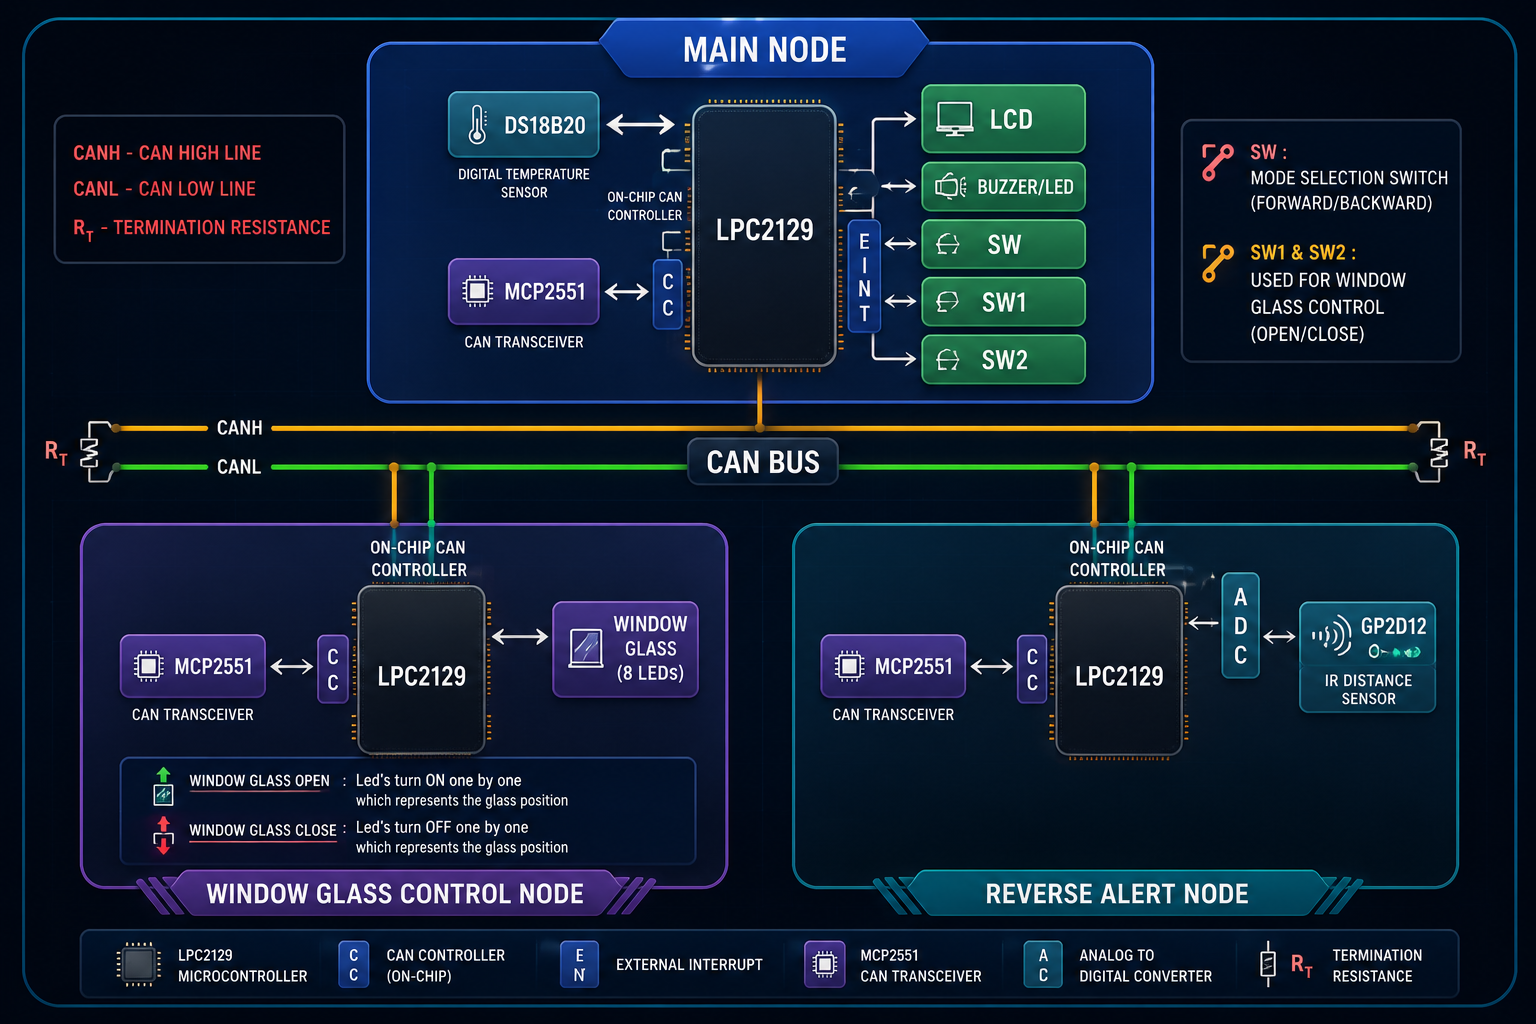
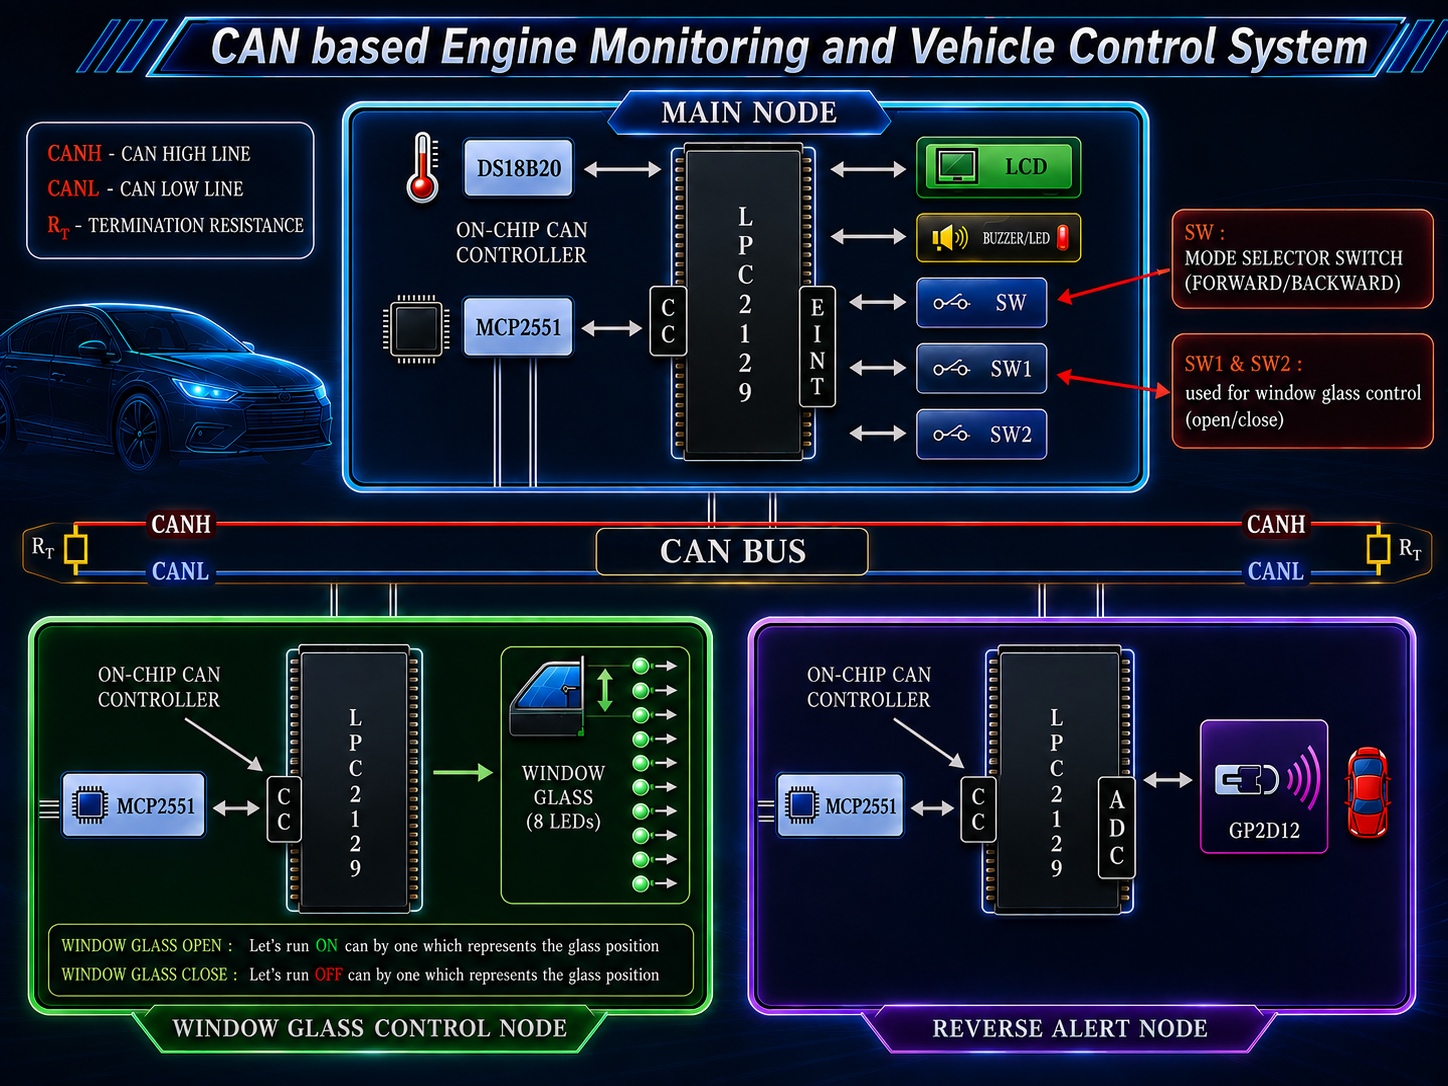
chnages in Readme file

diff --git a/Main_Node/project_functions.c b/Main_Node/project_functions.c
@@ -462,49 +462,5 @@ void show_reverse_error(void)
 }
 
 
-//Check Window Node
-
-u8 Check_Window_Node(void)
-{
-
-    u16 timeout = 100;
 
 
-    struct CAN_Frame frame;
-
-
-    while(timeout--)
-    {
-        if(CAN1_Rx(&frame))
-        {
-
-            if(frame.ID == CAN_ID_WINDOW_STATUS)
-				  return 1;
-        }
-        delay_ms(1);
-    }
-    return 0;
-}
-
-
-//check reverse node
-
-u8 Check_Reverse_Node(void)
-{
-    u16 timeout = 100;
-    struct CAN_Frame frame;
-
-    while(timeout--)
-    {
-        if(CAN1_Rx(&frame))
-        {
-            if((frame.ID == CAN_ID_DISTANCE) &&
-               (frame.vbf.DLC == 1))
-            {
-                return 1;
-            }
-         }
-        delay_ms(1);
-    }
-    return 0;
-}

diff --git a/Window_glass_control_Node/CAN_Defines.h b/Window_glass_control_Node/CAN_Defines.h
@@ -19,9 +19,18 @@
  *                  APPLICATION CAN IDENTIFIERS
  *====================================================================*/
 
+
 /* Main Node -> Window Control Node */
-#define CAN_ID_WINDOW_CTRL        (0x101)
-#define CAN_ID_WINDOW_STATUS    0x201
+#define CAN_ID_WINDOW_CTRL      (0x101)
+
+/* Main Node -> Reverse Alert Node */
+#define CAN_ID_REVERSE_ENABLE   (0x102)
+
+/* Reverse Alert Node -> Main Node */
+#define CAN_ID_DISTANCE         (0x103)
+
+//WINDOW NODE -> Main Node Window Status ID
+#define CAN_ID_WINDOW_STATUS     (0x201)
 
 
 

diff --git a/Reverse_alert_node/CAN_Defines.h b/Reverse_alert_node/CAN_Defines.h
@@ -21,11 +21,17 @@
  *                  APPLICATION CAN IDENTIFIERS
  *====================================================================*/
 
+/* Main Node -> Window Control Node */
+#define CAN_ID_WINDOW_CTRL      (0x101)
+
 /* Main Node -> Reverse Alert Node */
-#define CAN_ID_REVERSE_ENABLE    (0x102)
+#define CAN_ID_REVERSE_ENABLE   (0x102)
 
 /* Reverse Alert Node -> Main Node */
-#define CAN_ID_DISTANCE          (0x103)
+#define CAN_ID_DISTANCE         (0x103)
+
+//WINDOW NODE -> Main Node Window Status ID
+#define CAN_ID_WINDOW_STATUS     (0x201)
 
 
 /*====================================================================

diff --git a/Main_Node/CAN_defines.h b/Main_Node/CAN_defines.h
@@ -28,11 +28,14 @@
 /* Reverse Alert Node -> Main Node */
 #define CAN_ID_DISTANCE         (0x103)
 
+//WINDOW NODE -> Main Node Window Status ID
+#define CAN_ID_WINDOW_STATUS     (0x201)
+
 /*====================================================================
  *                  WINDOW CONTROL COMMANDS
  *====================================================================*/
 
-#define CAN_ID_WINDOW_STATUS    0x201
+
 
 #define WINDOW_STOP_CMD         (0x00)
 

diff --git a/README.md b/README.md
@@ -66,7 +66,7 @@ The system continuously monitors engine temperature, controls power window movem
 
 ---
 
-# ⭐ New Feature — Intelligent CAN Node Failure Detection
+# ⭐ Intelligent CAN Node Failure Detection Implementation
 
 One of the major enhancements implemented in this project is **real-time CAN Node Failure Detection and Recovery**.
 
@@ -224,10 +224,11 @@ CAN-Based-Engine-Monitoring-and-Vehicle-Control-System
 # 📨 CAN Message IDs
 
 | CAN ID | Description |
-|---------|-------------|
-|0x101|Window Control|
-|0x102|Reverse Enable|
-|0x103|Distance Data|
+|------------|-------------|
+|WINDOW CTRL|       (0x101)
+| REVERSE ENABLE|   (0x102)
+|DISTANCE |         (0x103)
+|WINDOW STATUS|     (0x201)
 
 <br>
 